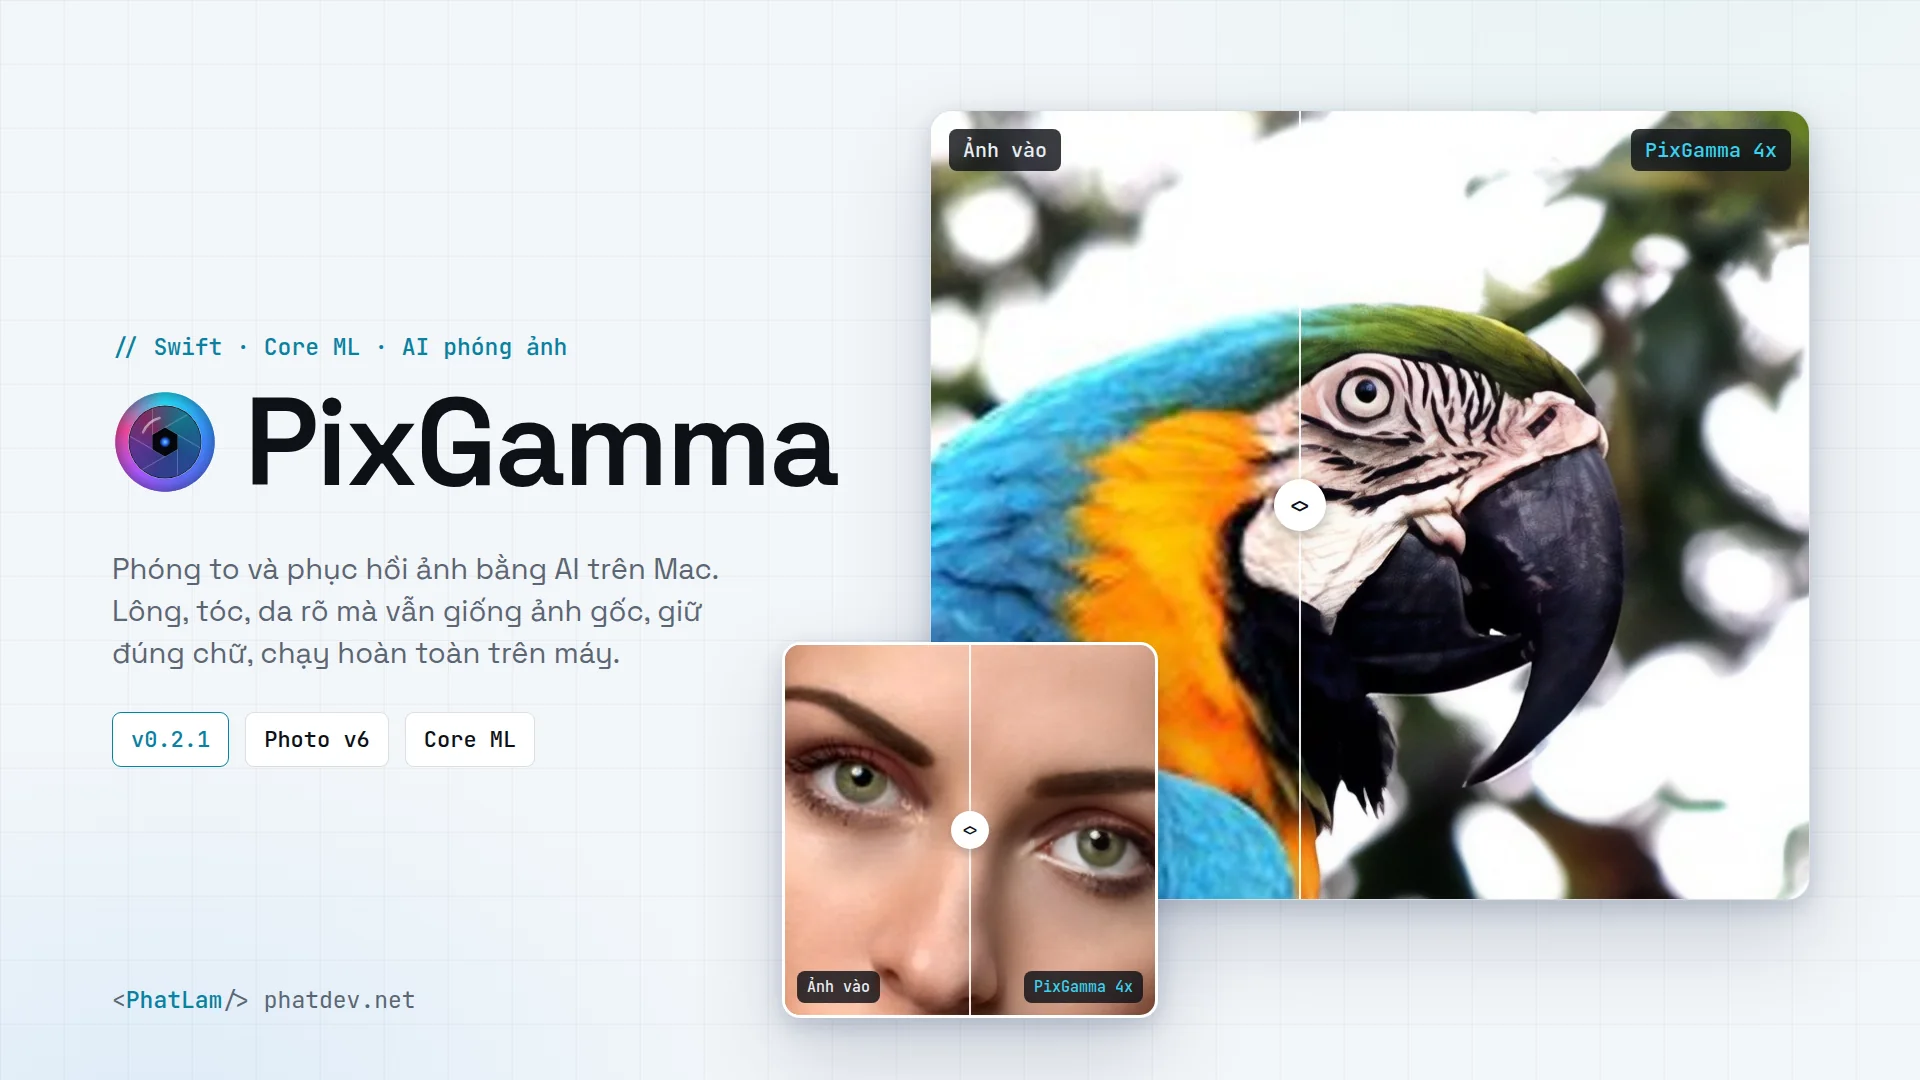
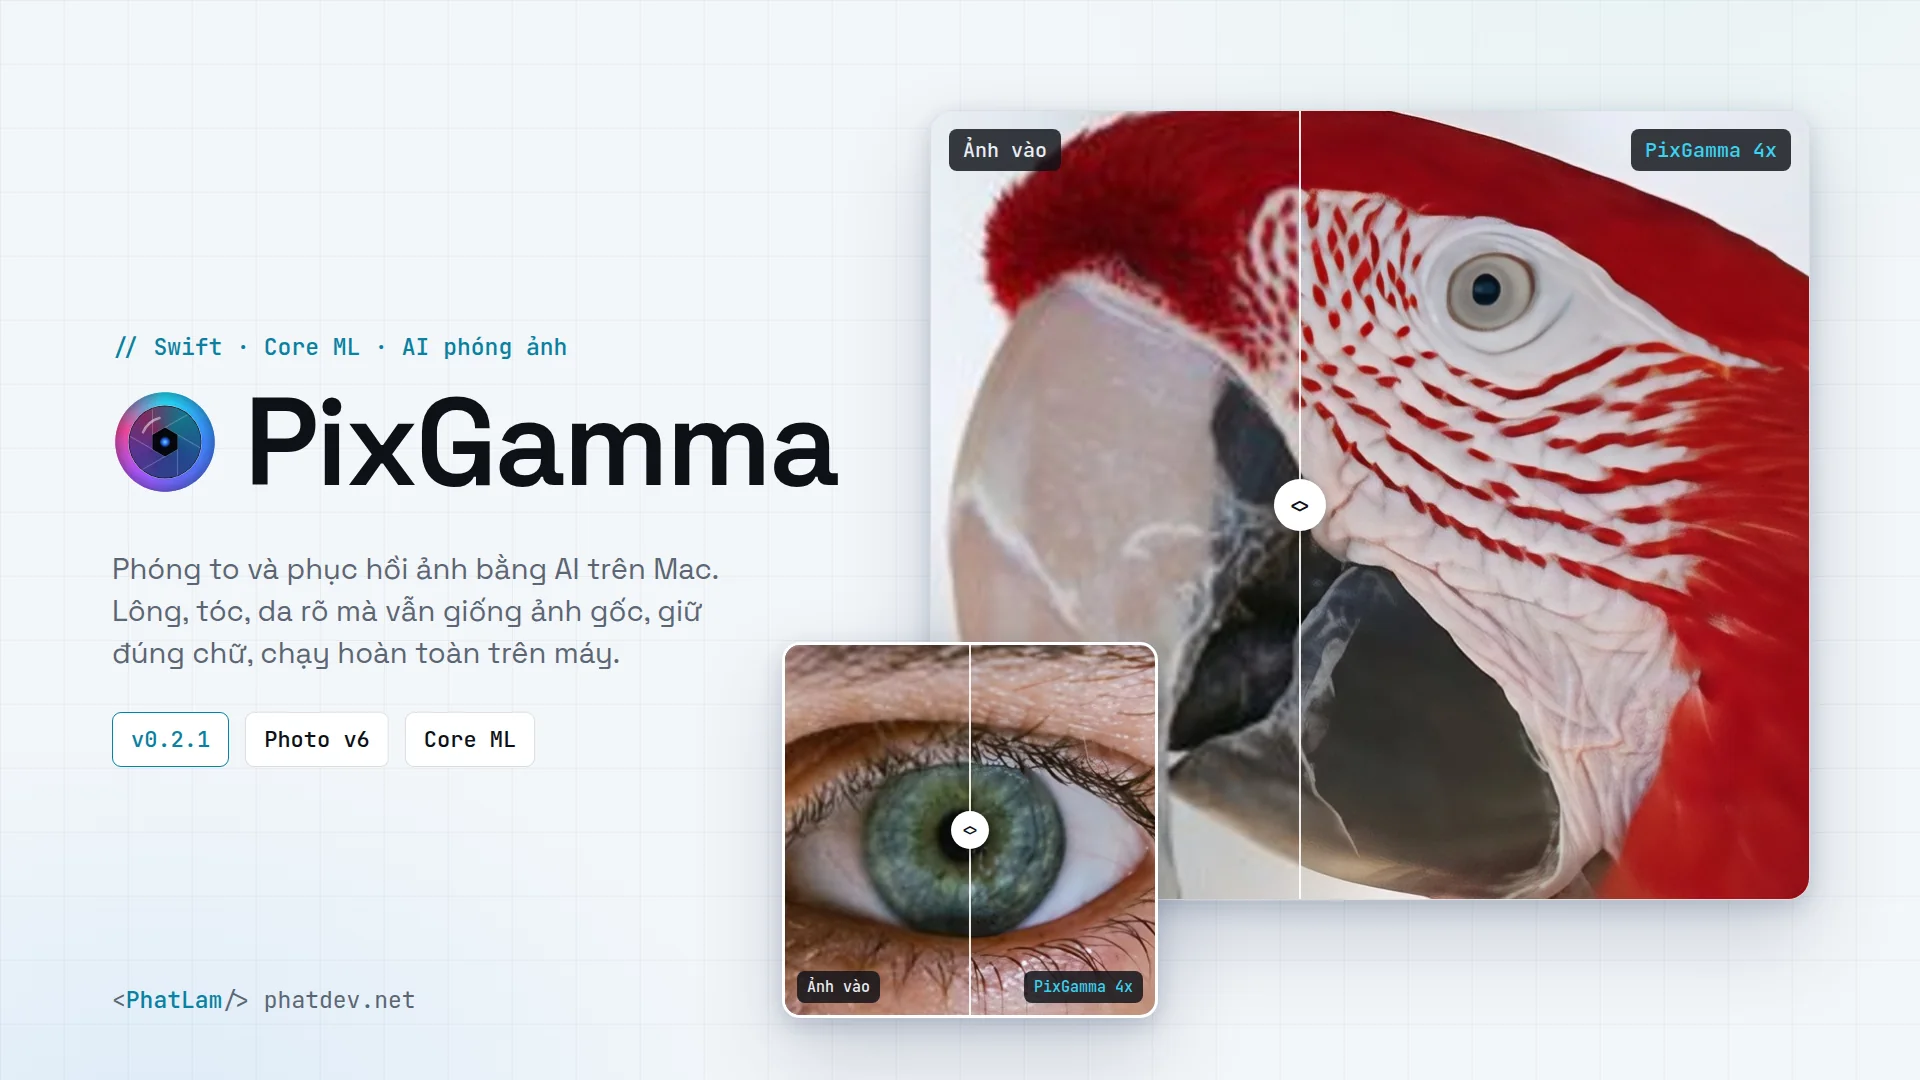
README: fresh sample photos
Replaces the keyboard, macaw and redhead portrait used since 0.2.0 with new
CC0 photos from Wikimedia Commons, none of them in the training data:
- a welcome sign in Fenit, for text
- a military macaw, for feathers
- a black-and-white portrait
- long brown hair
- for the hero: a green-winged macaw and an eye close-up

All are upscaled with the current app (Photo v6, Auto). Credits rewritten.

diff --git a/docs/samples/CREDITS.md b/docs/samples/CREDITS.md
@@ -1,11 +1,14 @@
 # Nguồn ảnh mẫu
 
-Ảnh gốc trong `docs/samples/source/` được tải từ Wikimedia Commons. Ảnh so sánh `compare-*-{vi,en}.jpg`
-và ảnh bìa `docs/brand/hero-*.webp` do PixGamma tạo từ các ảnh này (thu nhỏ 4 lần, nén JPEG, rồi phóng lại 4x bằng app với PixGamma Photo v6).
+Ảnh gốc trong `docs/samples/source/` được tải từ Wikimedia Commons (thu về rộng 1920 px). Không ảnh nào nằm trong dữ liệu huấn luyện của PixGamma.
+Ảnh so sánh `compare-*-{vi,en}.jpg` và ảnh bìa `docs/brand/hero-*.webp` do PixGamma tạo từ các ảnh này: thu nhỏ 4 lần, nén JPEG,
+rồi phóng lại 4x bằng app (chế độ Auto, PixGamma Photo v6).
 
 | File | Ảnh gốc | Tác giả | Giấy phép |
 |---|---|---|---|
-| `thinkpad.jpg` | [ThinkpadKeyboard](https://commons.wikimedia.org/wiki/File:ThinkpadKeyboard.jpg) | Raysonho @ Open Grid Scheduler / Grid Engine | CC0 1.0 |
-| `macaw.jpg` | [Macaw parrot sitting on a tree branch](https://commons.wikimedia.org/wiki/File:Macaw_parrot_sitting_on_a_tree_branch.jpg_.jpg) | Christopher Kuszajewski | CC0 1.0 |
-| `hair.jpg` | [Long hair model](https://commons.wikimedia.org/wiki/File:Long_hair_model.jpg) | Andrea Piacquadio (@VanveenJF) | CC0 1.0 |
-| `girl.jpg` | [Attractive beautiful redhead girl](https://commons.wikimedia.org/wiki/File:Attractive_beautiful_redhead_girl.jpg) | Jerzy Górecki | CC0 1.0 |
+| `sign.jpg` | [Sign-1130628, Fenit, Co. Kerry, Ireland](https://commons.wikimedia.org/wiki/File:Sign-1130628,_Fenit,_Co._Kerry,_Ireland.jpg) | Mucklagh | CC0 1.0 |
+| `macaw.jpg` | [Military macaw head closeup at Cougar Mountain Zoological Park](https://commons.wikimedia.org/wiki/File:Military_macaw_head_closeup_at_Cougar_Mountain_Zoological_Park.jpg) | Dcoetzee | CC0 1.0 |
+| `macaw2.jpg` | [Green-winged macaw headshot at Cougar Mountain Zoological Park](https://commons.wikimedia.org/wiki/File:Green-winged_macaw_headshot_at_Cougar_Mountain_Zoological_Park.jpg) | Dcoetzee | CC0 1.0 |
+| `portrait.jpg` | [Tree lights and woman smiling (Unsplash)](https://commons.wikimedia.org/wiki/File:Tree_lights_and_woman_smiling_(Unsplash).jpg) | Brooke Cagle | CC0 1.0 |
+| `hair.jpg` | [Smiling woman on a balcony (Unsplash)](https://commons.wikimedia.org/wiki/File:Smiling_woman_on_a_balcony_(Unsplash).jpg) | Eli DeFaria | CC0 1.0 |
+| `eye.jpg` | [Eye Contact (Unsplash)](https://commons.wikimedia.org/wiki/File:Eye_Contact_(Unsplash).jpg) | Jordan Whitfield | CC0 1.0 |

diff --git a/README.md b/README.md
@@ -24,7 +24,7 @@
 <p align="center">
   <picture>
     <source media="(prefers-color-scheme: dark)" srcset="docs/brand/hero-vi-dark.webp">
-    <img src="docs/brand/hero-vi-light.webp" width="100%" alt="PixGamma: con vẹt và chân dung trước/sau khi phóng 4x">
+    <img src="docs/brand/hero-vi-light.webp" width="100%" alt="PixGamma: con vẹt và mắt người trước/sau khi phóng 4x">
   </picture>
 </p>
 
@@ -93,17 +93,17 @@ Xóa `/Applications/PixGamma.app` và thư mục `~/Library/Application Support/
 
 Ảnh vào được thu nhỏ 4 lần rồi nén JPEG để giống ảnh lấy từ web, sau đó phóng 4x bằng app (chế độ Auto, PixGamma Photo v6). Mỗi ảnh gồm phóng thường bicubic, PixGamma 4x và ảnh gốc, cắt đúng điểm ảnh 1:1.
 
-| Bàn phím ThinkPad đèn nền (giữ chữ) |
+| Biển chào ở Fenit, Ireland (giữ chữ) |
 |---|
-| ![Bàn phím ThinkPad: bicubic, PixGamma và ảnh gốc](docs/samples/compare-thinkpad-vi.jpg) |
+| ![Biển chữ: bicubic, PixGamma và ảnh gốc](docs/samples/compare-sign-vi.jpg) |
 
-| Vẹt (Standard) |
+| Lông vẹt (Standard) |
 |---|
 | ![Vẹt: bicubic, PixGamma và ảnh gốc](docs/samples/compare-macaw-vi.jpg) |
 
-| Chân dung (khuôn mặt Chân thực) |
+| Chân dung đen trắng (khuôn mặt Chân thực) |
 |---|
-| ![Chân dung: bicubic, PixGamma và ảnh gốc](docs/samples/compare-face-vi.jpg) |
+| ![Chân dung: bicubic, PixGamma và ảnh gốc](docs/samples/compare-portrait-vi.jpg) |
 
 | Tóc dài (Standard) |
 |---|

diff --git a/README.en.md b/README.en.md
@@ -24,7 +24,7 @@
 <p align="center">
   <picture>
     <source media="(prefers-color-scheme: dark)" srcset="docs/brand/hero-en-dark.webp">
-    <img src="docs/brand/hero-en-light.webp" width="100%" alt="PixGamma: macaw and portrait before and after 4x upscaling">
+    <img src="docs/brand/hero-en-light.webp" width="100%" alt="PixGamma: macaw and human eye before and after 4x upscaling">
   </picture>
 </p>
 
@@ -93,17 +93,17 @@ Delete `/Applications/PixGamma.app` and `~/Library/Application Support/PixGamma`
 
 Inputs were downscaled 4 times and JPEG-compressed to mimic web images, then upscaled 4x by the app (Auto mode, PixGamma Photo v6). Each row shows a bicubic resize, PixGamma 4x and the original, cropped at 1:1 pixels.
 
-| Backlit ThinkPad keyboard (text protection) |
+| Welcome sign in Fenit, Ireland (text protection) |
 |---|
-| ![ThinkPad keyboard: bicubic, PixGamma and the original](docs/samples/compare-thinkpad-en.jpg) |
+| ![Sign: bicubic, PixGamma and the original](docs/samples/compare-sign-en.jpg) |
 
-| Macaw (Standard) |
+| Macaw feathers (Standard) |
 |---|
 | ![Macaw: bicubic, PixGamma and the original](docs/samples/compare-macaw-en.jpg) |
 
-| Portrait (Realistic face) |
+| Black-and-white portrait (Realistic face) |
 |---|
-| ![Portrait: bicubic, PixGamma and the original](docs/samples/compare-face-en.jpg) |
+| ![Portrait: bicubic, PixGamma and the original](docs/samples/compare-portrait-en.jpg) |
 
 | Long hair (Standard) |
 |---|
